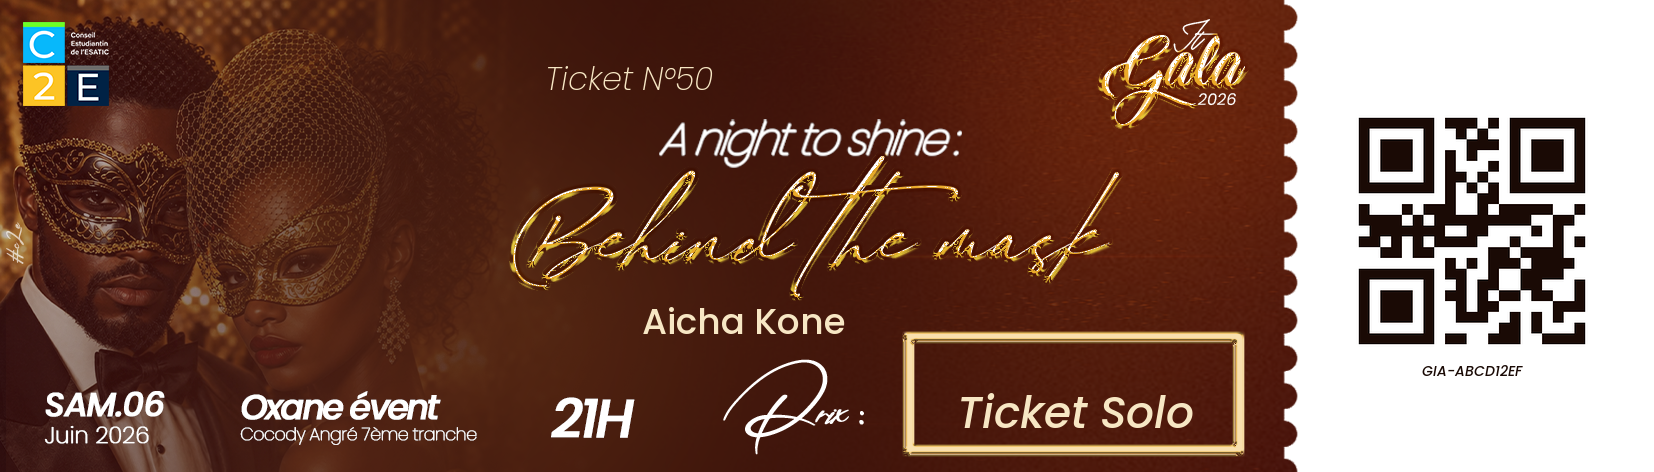
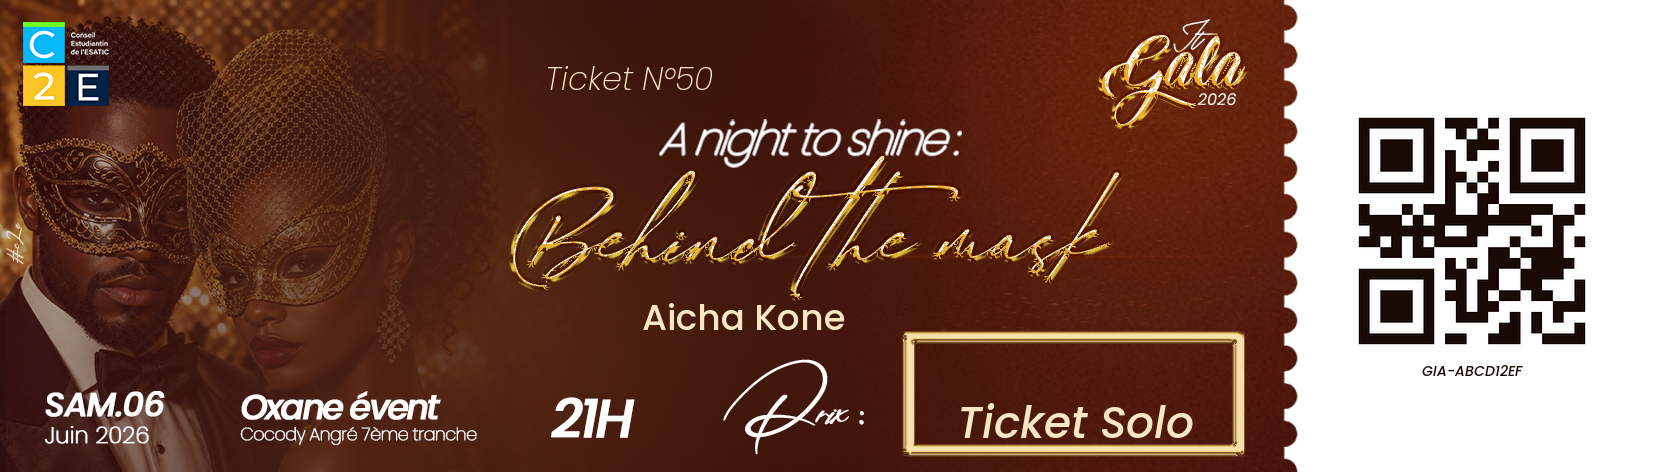
monter nom 1 % et descendre cadre 2%

Changed region(s): [[0.5859, 0.8305, 0.74, 0.9492], [0.37, 0.6525, 0.5242, 0.7119]]

diff --git a/frontend/src/components/TicketQR.tsx b/frontend/src/components/TicketQR.tsx
@@ -22,8 +22,8 @@ import type { Gala, Ticket } from "@/lib/types";
 
 // Positions calibrees sur la template (1654 x 472 px).
 const POS_NUMBER = { left: "33%", top: "12%" };
-const POS_NAME = { left: "45%", top: "68%" }; // centre, sous "Behind the mask"
-const POS_TYPE = { left: "65%", top: "87%" }; // centre du cadre dore
+const POS_NAME = { left: "45%", top: "67%" }; // centre, sous "Behind the mask"
+const POS_TYPE = { left: "65%", top: "89%" }; // centre du cadre dore
 const POS_QR = { right: "5.5%", top: "49%", width: "15%" }; // centre sur l'espace blanc
 
 const DEBUG_OVERLAYS = false;

diff --git a/backend/app/services/ticket_image.py b/backend/app/services/ticket_image.py
@@ -30,9 +30,9 @@ _TEMPLATE_H = 472
 #    Coordonnee = coin haut-gauche du texte.
 _NUMBER_POS_PCT = (0.33, 0.12)
 # 2. Nom de la personne qui a achete le ticket, centre sous "Behind the mask"
-_NAME_POS_PCT = (0.45, 0.68)
+_NAME_POS_PCT = (0.45, 0.67)
 # 3. Libelle du type (Ticket Solo / Duo / Gbonhi) : centre du cadre dore
-_TYPE_POS_PCT = (0.65, 0.87)
+_TYPE_POS_PCT = (0.65, 0.89)
 # 4. QR : centre de la zone blanche
 _QR_CENTER_PCT = (0.89, 0.49)
 _QR_SIZE_PCT = 0.15  # 15% of template width
